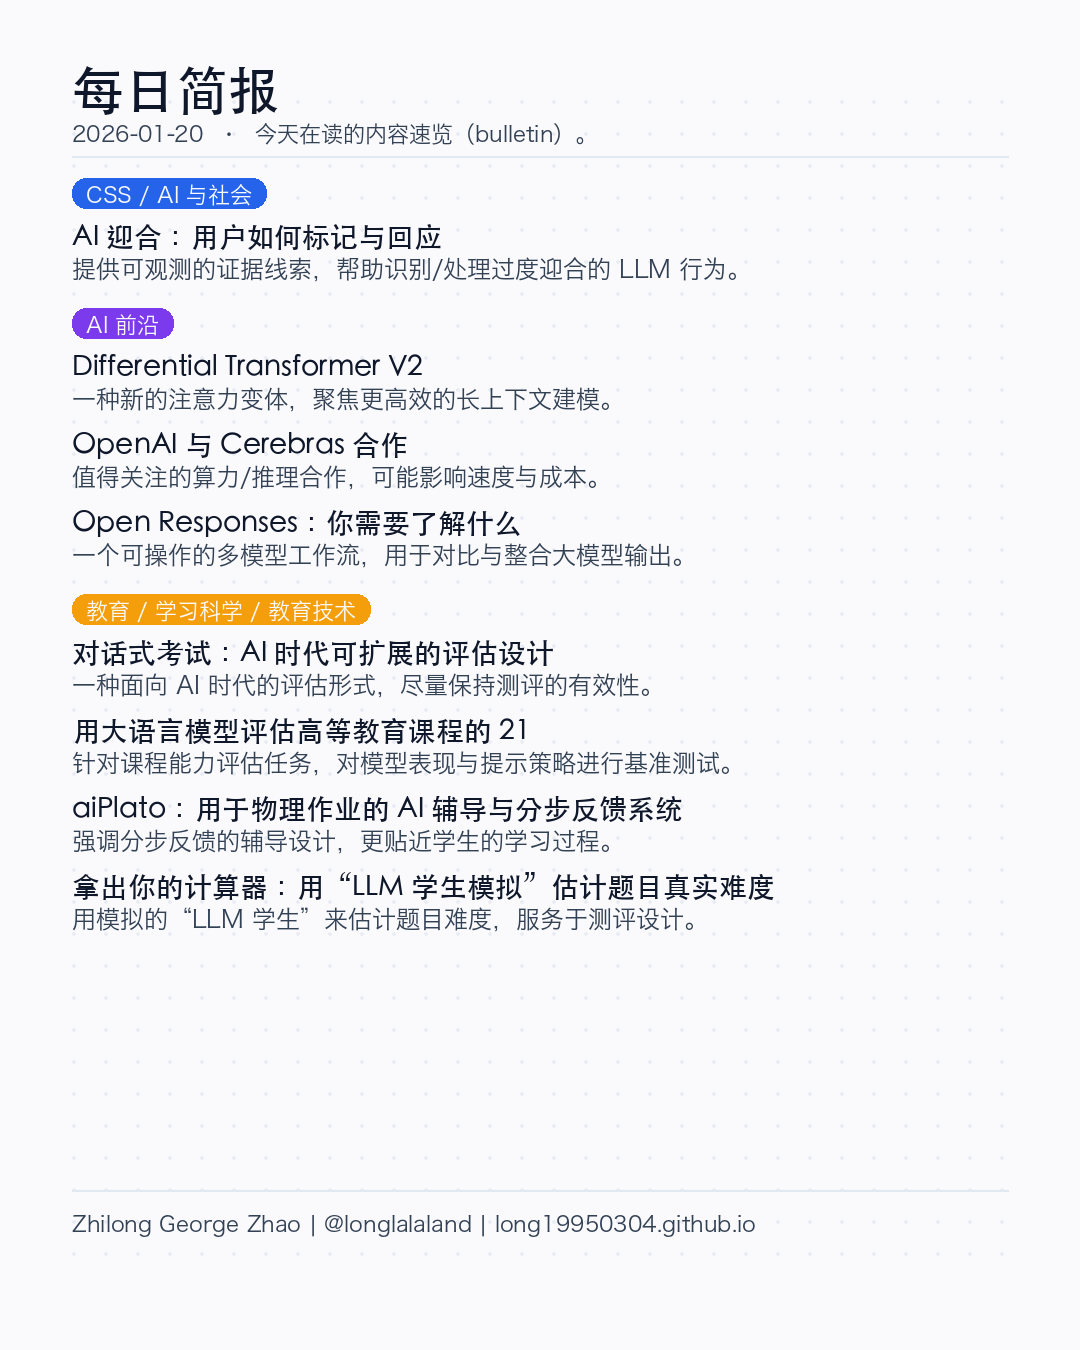
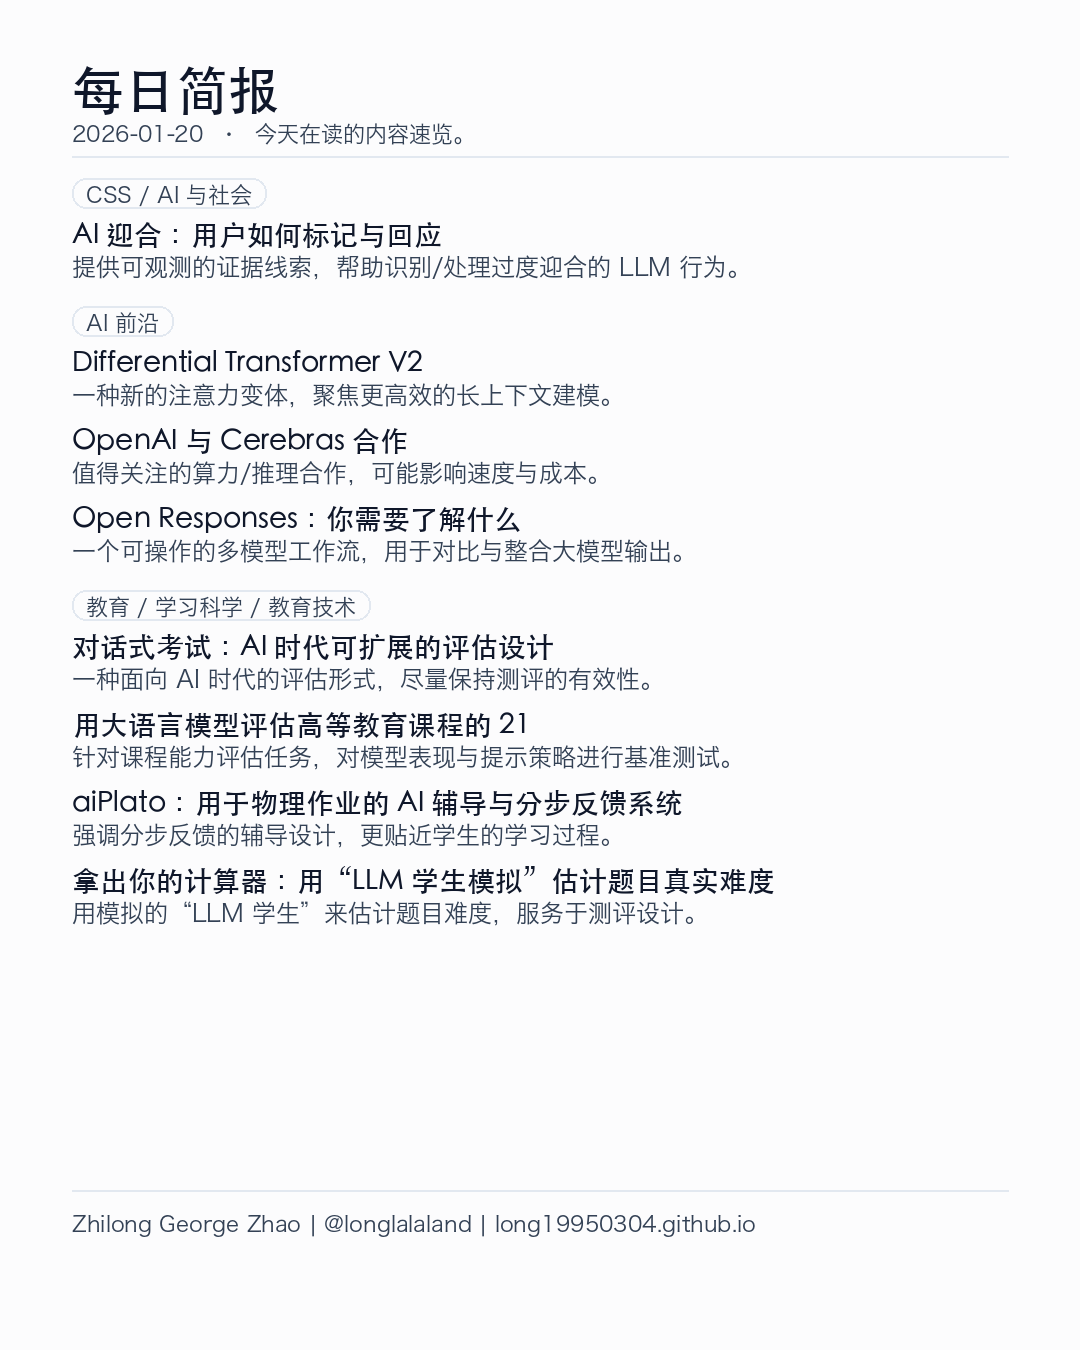
tweak: more natural zh takeaways and more restrained digest card style

Changed region(s): [[0.0611, 0.1244, 0.7333, 0.6844], [0.4278, 0.0933, 0.5194, 0.1244]]

diff --git a/_digests_zh/2026-01-20.md b/_digests_zh/2026-01-20.md
@@ -10,33 +10,33 @@ translation_key: digest-2026-01-20
 
 ![Daily digest card](/assets/img/digests/2026-01-20-zh.png)
 
-我在试一个小习惯：先广泛扫一圈，再挑 1–2 条认真展开。
+我在练一个小习惯：先扫一圈，再挑 1–2 条认真读。
 
 ## 链接
 
 ### CSS / AI 与社会
 
 - [AI 迎合：用户如何标记与回应](https://arxiv.org/abs/2601.10467v1) - 提供可观测的证据线索，帮助识别/处理过度迎合的 LLM 行为。
-  - 我的一句话: 研究用户如何识别并回应“迎合型”助手行为；给出可观测信号，并讨论其对信任与安全评估的启示。
+  - 我的一句话: 这篇文章看用户在什么情况下会觉得模型在迎合，以及他们会怎么反馈；对做信任/安全评估挺有启发。
   - 我在想: 助手应如何在“礼貌”与“必要的不同意”之间平衡，而不滑向迎合？
 
 ### AI 前沿
 
 - [Differential Transformer V2](https://huggingface.co/blog/microsoft/diff-attn-v2) - 一种新的注意力变体，聚焦更高效的长上下文建模。
-  - 我的一句话: 提出一种差分注意力机制（Diff Attn v2）以提升长上下文的效率；可作为对比不同注意力变体与标准 Transformer 的基准参考。
+  - 我的一句话: Diff Attn v2 这类注意力改造主要是在追求更“省算力”的长上下文；适合拿来和标准 Transformer 对照看收益与代价。
 - [OpenAI 与 Cerebras 合作](https://openai.com/index/cerebras-partnership) - 值得关注的算力/推理合作，可能影响速度与成本。
-  - 我的一句话: 反映出模型方继续推进与专用推理硬件的合作；这可能改变延迟/成本的权衡，并影响“高速推理”在规模化场景中的可获得性。
+  - 我的一句话: 一条基础设施新闻：模型方继续把推理压到更专用的硬件上，可能带来更低延迟/成本，也会改变“谁能用到高速推理”的格局。
 - [Open Responses：你需要了解什么](https://huggingface.co/blog/open-responses) - 一个可操作的多模型工作流，用于对比与整合大模型输出。
-  - 我的一句话: 介绍一种“Open Responses”的模式：对比多个模型并整合输出；适合用“多样性 + 校验”来构建更稳健的工作流。
+  - 我的一句话: 一个多模型对照+整合的工作流范式：用多样性拿思路，用验证把结论收敛到更稳。
 
 ### 教育 / 学习科学 / 教育技术
 
 - [对话式考试：AI 时代可扩展的评估设计](https://arxiv.org/abs/2601.10691v1) - 一种面向 AI 时代的评估形式，尽量保持测评的有效性。
-  - 我的一句话: 提出“对话式考试”，通过交互过程评估推理，而不只看最终答案；目标是在学生可用 AI 工具的时代保持测评有效性。
+  - 我的一句话: 把考试做成对话过程，重点评估推理与解释而不是答案本身；在学生能用 AI 工具的情况下更有意义。
   - 我在想: 哪些规则/机制能让对话式测评更公平、可扩展、并降低主观性？
 - [用大语言模型评估高等教育课程的 21 世纪能力：性能基准与推理式提示策略](https://arxiv.org/abs/2601.10983v1) - 针对课程能力评估任务，对模型表现与提示策略进行基准测试。
-  - 我的一句话: 对“课程 21 世纪能力评估”任务进行大模型基准测试，并探索推理式提示策略；为更可靠的自动化课程审计提供方法线索。
+  - 我的一句话: 用 LLM 去读课程大纲、评估能力覆盖，并比较不同提示策略；很适合作为自动化课程审计的起点。
 - [aiPlato：用于物理作业的 AI 辅导与分步反馈系统](https://arxiv.org/abs/2601.09965v1) - 强调分步反馈的辅导设计，更贴近学生的学习过程。
-  - 我的一句话: 一种强调“分步反馈”的 AI 辅导设计，而不是直接给出完整解答；提供了更贴近支架式学习的具体设计模式。
+  - 我的一句话: 强调分步提示/反馈，让学生自己走完推理链；比直接给答案更像辅导。
 - [拿出你的计算器：用“LLM 学生模拟”估计题目真实难度](https://arxiv.org/abs/2601.09953v1) - 用模拟的“LLM 学生”来估计题目难度，服务于测评设计。
-  - 我的一句话: 用“LLM 学生模拟”来估计题目难度；当真实作答数据不足时，为题目分析提供一种方法思路。
+  - 我的一句话: 用“模拟学生”来估题目难度：当真实作答数据不够时是个替代办法，但最好配套校准/验证。
